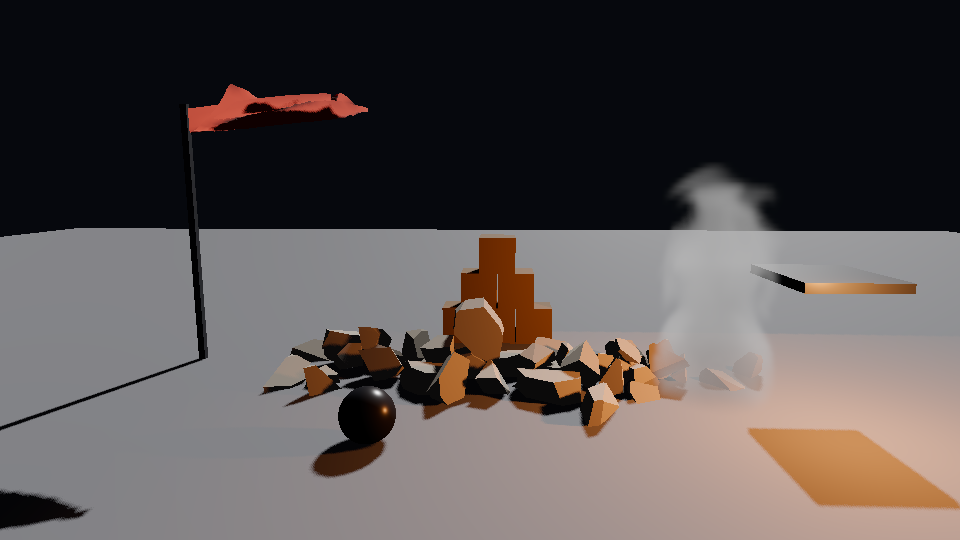
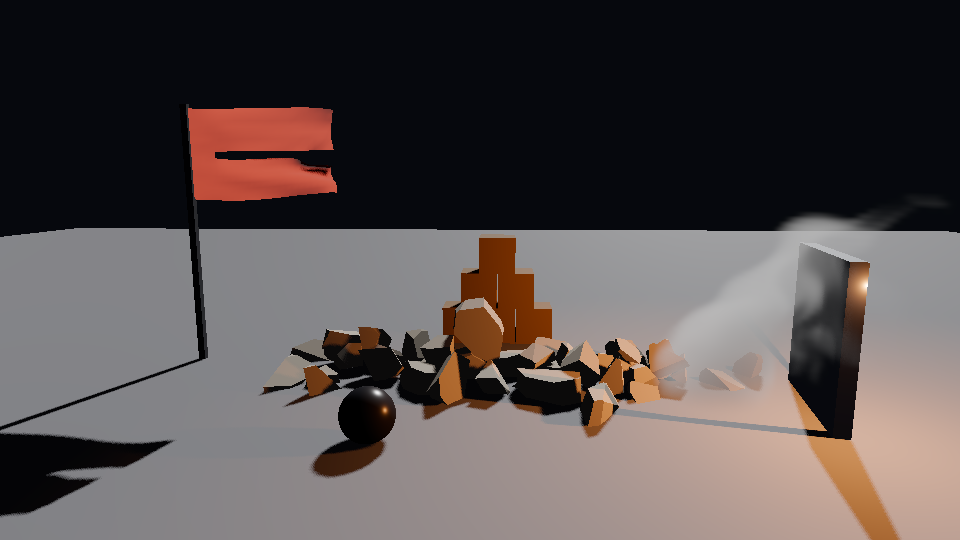
PhysXCloth3D.tear, air-only Flow emitters; showcase: one wind, smoke against a wall, flag rips
Claude-Session: https://claude.ai/code/session_019a7Xd5qa5keFF8fqAMZQV4

diff --git a/modules/godot_physx/nodes/physx_cloth_3d.cpp b/modules/godot_physx/nodes/physx_cloth_3d.cpp
@@ -531,6 +531,21 @@ void PhysXCloth3D::_update_mesh() {
 // Lets pinned vertices go mid-simulation, without the reset that changing pin_mode or
 // pinned_vertices does: the cloth keeps its motion, so a pinned edge tears free of its pole.
 // The change lasts until the pins are next resolved (a property change or reset()).
+// Rips the cloth along a line (local space, measured on the rest shape's XY plane). Each call
+// cuts one segment; calling it with a lengthening segment over a few frames makes the rip run.
+// CPU solver only: the GPU deformable surface can't drop constraints.
+int PhysXCloth3D::tear(const Vector3 &p_from, const Vector3 &p_to) {
+	if (!built) {
+		return 0;
+	}
+	ERR_FAIL_COND_V_MSG(gpu_cloth.is_valid(), 0, "PhysXCloth3D.tear() needs the CPU solver; set simulation_mode to SIM_CPU.");
+	const int removed = solver.tear(Vector2(p_from.x, p_from.y), Vector2(p_to.x, p_to.y));
+	if (removed > 0) {
+		_update_mesh();
+	}
+	return removed;
+}
+
 int PhysXCloth3D::release_pins(const PackedInt32Array &p_vertices) {
 	if (!built) {
 		return 0;
@@ -799,6 +814,7 @@ void PhysXCloth3D::_bind_methods() {
 	ClassDB::bind_method(D_METHOD("get_vertex_count"), &PhysXCloth3D::get_vertex_count);
 	ClassDB::bind_method(D_METHOD("get_pinned_positions"), &PhysXCloth3D::get_pinned_positions);
 	ClassDB::bind_method(D_METHOD("release_pins", "vertices"), &PhysXCloth3D::release_pins);
+	ClassDB::bind_method(D_METHOD("tear", "from", "to"), &PhysXCloth3D::tear);
 	ClassDB::bind_method(D_METHOD("is_gpu_accelerated"), &PhysXCloth3D::is_gpu_accelerated);
 
 	ClassDB::bind_method(D_METHOD("set_simulation_mode", "mode"), &PhysXCloth3D::set_simulation_mode);

diff --git a/modules/godot_physx/cloth/xpbd_cloth_solver.cpp b/modules/godot_physx/cloth/xpbd_cloth_solver.cpp
@@ -454,3 +454,43 @@ void XPBDClothSolver::step(float p_dt, const Vector3 &p_gravity, const Vector3 &
 		}
 	}
 }
+
+static bool _segments_cross(const Vector2 &p_a, const Vector2 &p_b, const Vector2 &p_c, const Vector2 &p_d) {
+	const real_t d1 = (p_b - p_a).cross(p_c - p_a);
+	const real_t d2 = (p_b - p_a).cross(p_d - p_a);
+	const real_t d3 = (p_d - p_c).cross(p_a - p_c);
+	const real_t d4 = (p_d - p_c).cross(p_b - p_c);
+	return ((d1 > 0) != (d2 > 0)) && ((d3 > 0) != (d4 > 0)) && d1 != 0 && d2 != 0 && d3 != 0 && d4 != 0;
+}
+
+int XPBDClothSolver::tear(const Vector2 &p_from, const Vector2 &p_to) {
+	auto crosses = [&](int p_i, int p_j) {
+		const Vector3 &a = rest_positions[p_i];
+		const Vector3 &b = rest_positions[p_j];
+		return _segments_cross(Vector2(a.x, a.y), Vector2(b.x, b.y), p_from, p_to);
+	};
+	int removed = 0;
+	for (uint32_t i = 0; i < constraints.size();) {
+		if (crosses(constraints[i].a, constraints[i].b)) {
+			constraints.remove_at_unordered(i);
+			removed++;
+		} else {
+			i++;
+		}
+	}
+	LocalVector<int> kept;
+	kept.reserve(indices.size());
+	for (uint32_t t = 0; t + 2 < indices.size(); t += 3) {
+		const int a = indices[t];
+		const int b = indices[t + 1];
+		const int c = indices[t + 2];
+		if (crosses(a, b) || crosses(b, c) || crosses(c, a)) {
+			continue;
+		}
+		kept.push_back(a);
+		kept.push_back(b);
+		kept.push_back(c);
+	}
+	indices = kept;
+	return removed;
+}

diff --git a/modules/godot_physx/flow/flow_backend.cpp b/modules/godot_physx/flow/flow_backend.cpp
@@ -115,7 +115,10 @@ void set_channels(T &r_params, const Emitter &p_emitter) {
 	r_params.divergence = p_emitter.divergence;
 	const float c = p_emitter.couple_rate;
 	r_params.coupleRateVelocity = c;
-	r_params.coupleRateTemperature = c;
+	// An emitter that puts in no smoke, fuel, burn or heat only pushes air (wind): it leaves
+	// the gas's own temperature alone, so a hot plume keeps rising through it.
+	const bool air_only = p_emitter.smoke <= 0.0f && p_emitter.fuel <= 0.0f && p_emitter.burn <= 0.0f && p_emitter.temperature == 0.0f;
+	r_params.coupleRateTemperature = air_only ? 0.0f : c;
 	r_params.coupleRateFuel = p_emitter.fuel > 0.0f ? c : 0.0f;
 	r_params.coupleRateSmoke = p_emitter.smoke > 0.0f ? c : 0.0f;
 	r_params.coupleRateBurn = p_emitter.burn > 0.0f ? c : 0.0f;

diff --git a/modules/godot_physx/cloth/xpbd_cloth_solver.h b/modules/godot_physx/cloth/xpbd_cloth_solver.h
@@ -110,6 +110,9 @@ public:
 	float rest_surface_area() const;
 	// Scale every constraint's rest length (SoftBody3D shrinking_factor).
 	void set_rest_length_scale(float p_scale);
+	// Cut the cloth along a segment in its local rest XY plane: constraints and triangles whose
+	// rest edges cross it are removed, so the two sides separate. Returns the constraints removed.
+	int tear(const Vector2 &p_from, const Vector2 &p_to);
 
 private:
 	struct DistanceConstraint {

diff --git a/modules/godot_physx/nodes/physx_cloth_3d.h b/modules/godot_physx/nodes/physx_cloth_3d.h
@@ -185,6 +185,7 @@ public:
 	// Local-space positions of the currently pinned vertices (for the editor gizmo).
 	PackedVector3Array get_pinned_positions() const;
 	int release_pins(const PackedInt32Array &p_vertices);
+	int tear(const Vector3 &p_from, const Vector3 &p_to);
 	// True when the GPU (PhysX deformable-surface) path is in use.
 	bool is_gpu_accelerated() const { return gpu_cloth.is_valid(); }
 

diff --git a/changelog.d/physx-traced-smoke.md b/changelog.d/physx-traced-smoke.md
@@ -1,3 +1,5 @@
 ### Added
 - Path tracer: simulated gas. The PhysX Flow volume nearest the camera is traced as a participating medium (delta tracking, ratio-tracked shadows, Henyey-Greenstein phase, temperature emission). Setting `rendering/pathtracing/simulated_gas` (#PR).
 - PhysXCloth3D.release_pins(): lets pinned vertices go without resetting the cloth, so an edge can tear free (#PR).
+- PhysXCloth3D.tear(): cuts the cloth along a line so it rips apart (CPU solver) (#PR).
+- PhysXFlowEmitter3D: an emitter with no smoke, fuel, burn or heat only pushes air, for wind on the gas; it no longer cools the gas it passes (#PR).
